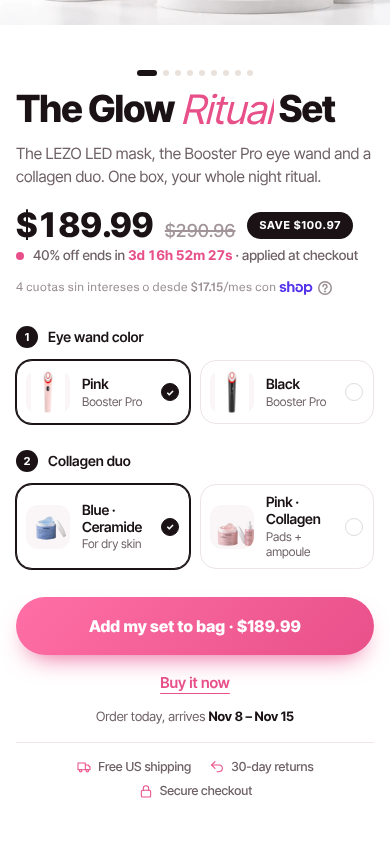
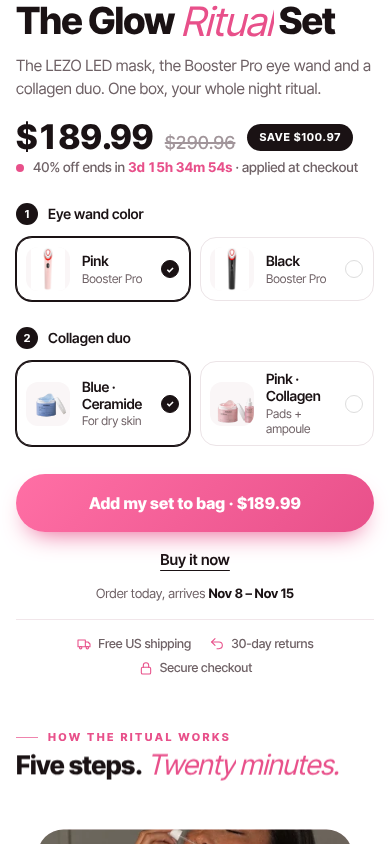
SEVENCRUSH premium clean draft: lighter sections below the buy box
Claude-Session: https://claude.ai/code/session_01GPrWF9TVFAgfYWSzMzvNBc

diff --git a/shopify-premium-nov3/assets/glow-premium.css b/shopify-premium-nov3/assets/glow-premium.css
@@ -178,3 +178,31 @@ body .gr{padding-bottom:24px}
 body .gl{padding-top:clamp(64px,9vw,100px)!important}
 /* Same left edge as every other section */
 body .gl .gl-in{max-width:1200px}
+
+/* ==================================================================
+   Clean pass (round 4): lighter page below the buy box.
+   ================================================================== */
+/* Gallery on desktop: thumbnails only (arrows + dots repeated them) */
+@media(min-width:900px){body .gr .gr-ctrl{display:none}}
+
+/* Ritual steps: a calm list with hairlines, not five boxed cards */
+body .gr .gr-steps{gap:0!important;border:0!important;border-radius:0!important;background:none!important;border-top:1px solid var(--gl-line)!important}
+body .gr .gr-steps li,body .gr .gr-steps li.is-hl{margin:0;padding:18px 2px!important;border:0!important;border-bottom:1px solid var(--gl-line)!important;border-radius:0!important;background:none!important;box-shadow:none!important}
+body .gr .gr-steps li+li{border-top:0!important}
+body .gr .gr-steps__n{font-size:26px!important}
+body .gr .gr-rit__ph figcaption{display:none}
+@media(min-width:900px){body .gr .gr-rit{gap:56px}}
+
+/* What's inside: one headline + one link per photo */
+body .gr .gr-ed__k,body .gr .gr-ed__o{display:none!important}
+body .gr .gr-ed__cta{margin-top:2.4cqi!important}
+@media(max-width:899px){body .gr .gr-ed__cta{font-size:3cqi!important}}
+
+/* Clinic vs at home: keep the rows that say something */
+body .gr .gr-table .gr-tr:nth-child(5),body .gr .gr-table .gr-tr:nth-child(6){display:none}
+
+/* Buy box: no Shop Pay installments banner (it renders in Spanish on an English store; installments still show at checkout) */
+body .gr .gr-pay{display:none!important}
+/* Know your light: the diagram says it; the color-mix footnote box goes */
+body .gl .gl-combo{display:none}
+body .gr .gr-ed__cta{white-space:nowrap}

diff --git a/shopify-premium-nov3/README.md b/shopify-premium-nov3/README.md
@@ -51,3 +51,14 @@ The page shows the product's real price everywhere ($189.99, compare-at $290.96 
 button, sticky bar, clinic table and collection card. The 40% offer is only announced (one line with the countdown,
 "applied at checkout", plus the top strip); the discount itself still comes off at checkout via the automatic discount.
 Product prices in Shopify were never changed (all 4 variants: 189.99 / compare 290.96).
+
+## Premium Clean (round 4) — new draft
+"Premium Experience" (`168504754395`) was published by the merchant on Nov 3 and is now the live theme, so edits to it
+are blocked. Round 4 lives in a fresh copy of it: **"SEVENCRUSH — Premium Clean (borrador) — Nov 3"**
+(`gid://shopify/OnlineStoreTheme/168528675035`), only `assets/glow-premium.css` changed:
+- Desktop gallery: thumbnails only (no arrow/dot row under them).
+- Ritual steps: plain list with hairlines (no five boxed cards, no caption sticker on the photo).
+- "What's inside" photos: one headline + one link each (kicker, big number and small print removed).
+- Clinic table: the two "Varies" rows removed.
+- Buy box: Shop Pay installments banner hidden (rendered in Spanish); "Know your light" color-mix box removed.
+Phone product page: 6,351 → 6,105 px.
